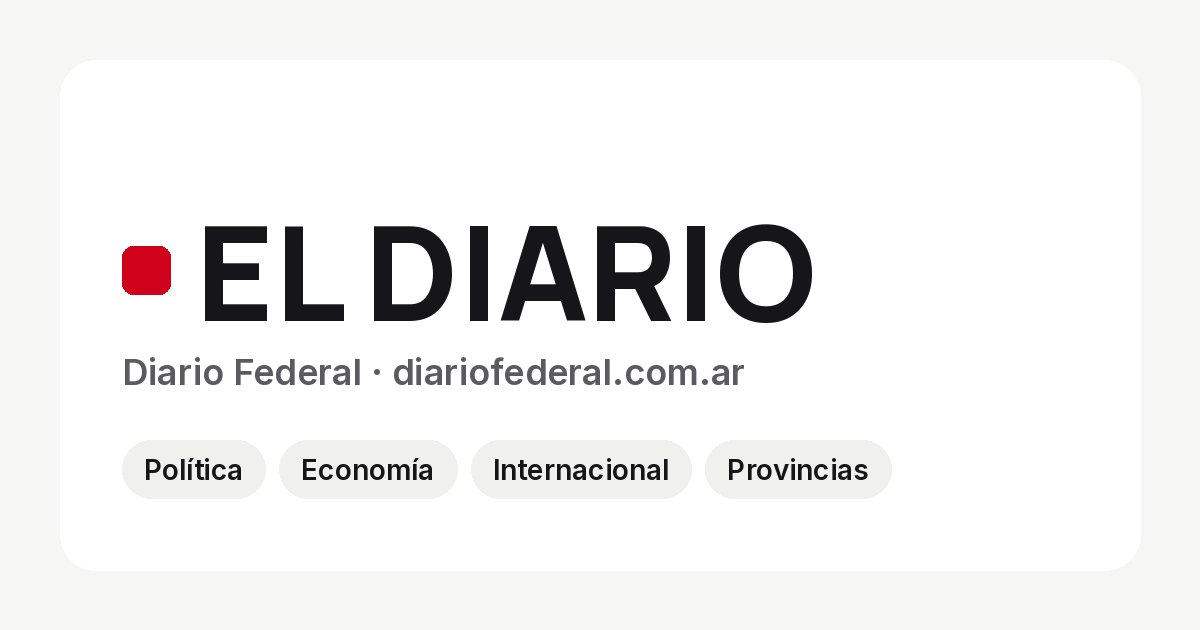
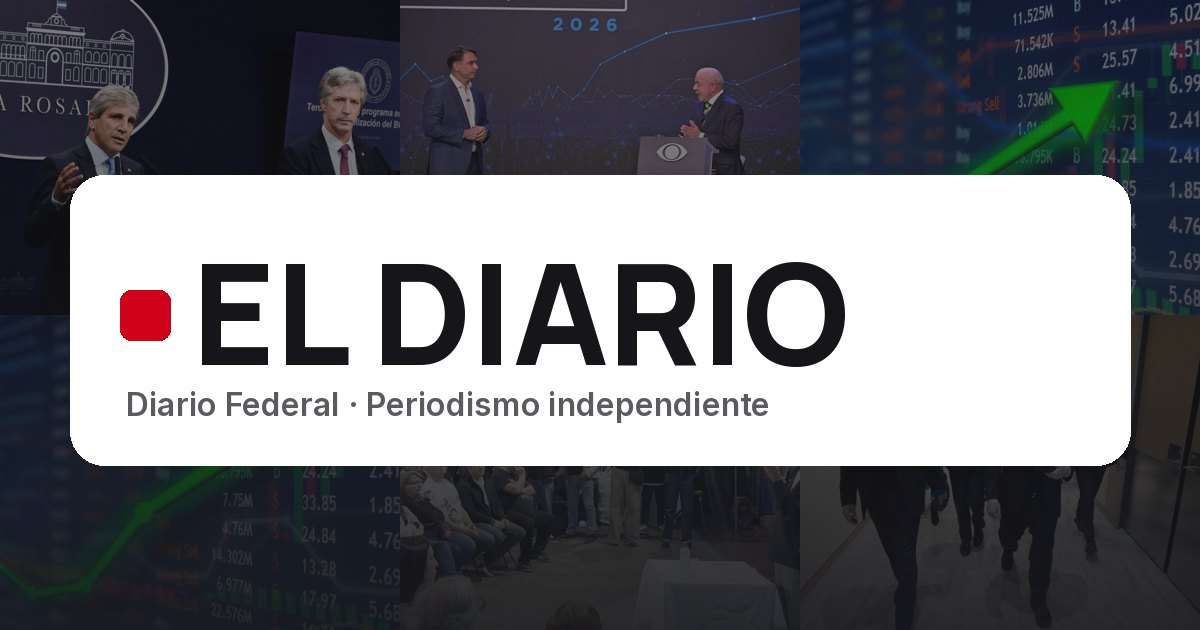
Cartel de la portada para WhatsApp: mosaico con las fotos de las últimas notas
- /api/og-portada.jpg arma un mosaico con 6 fotos recientes, oscurecido, y la tarjeta
  de la marca encima
- La portada pide una versión por día para que WhatsApp lo vaya renovando
- Si no se pueden bajar las fotos, se usa el cartel fijo con el mismo diseño

Claude-Session: https://claude.ai/code/session_01GgiR6yN54746cHdFVamrvT

diff --git a/src/pages/api/og-portada.jpg.ts b/src/pages/api/og-portada.jpg.ts
@@ -1,25 +1,64 @@
+// Cartel de la portada para WhatsApp y redes (1200x630): un mosaico con las fotos de las
+// últimas notas, oscurecido, con la tarjeta de la marca encima. Se arma solo con las notas del
+// momento; la portada pide una versión nueva cada día (?d=AAAA-MM-DD) para que WhatsApp la renueve.
+// Si algo falla, se sirve el cartel fijo /images/diario-federal-portada.jpg.
 import type { APIRoute } from 'astro';
 import sharp from 'sharp';
+import { getArticulos } from '../../lib/articles';
+import { descargarImagen } from '../../lib/imagenes';
 
 export const prerender = false;
 
-export const GET: APIRoute = async () => {
-  const svg = `<svg xmlns="http://www.w3.org/2000/svg" width="1200" height="630" viewBox="0 0 1200 630">
-    <rect width="1200" height="630" fill="#f8f7f4"/>
-    <rect width="1200" height="18" fill="#d32128"/>
-    <rect x="72" y="77" width="1056" height="3" fill="#d32128"/>
-    <text x="76" y="150" font-family="Arial,Helvetica,sans-serif" font-size="32" font-weight="bold" letter-spacing="8" fill="#d32128">PERIODISMO INDEPENDIENTE</text>
-    <text x="64" y="325" font-family="Georgia,Times New Roman,serif" font-size="119" font-weight="bold" fill="#141414">DIARIO</text>
-    <text x="64" y="449" font-family="Georgia,Times New Roman,serif" font-size="119" font-weight="bold" fill="#d32128">FEDERAL</text>
-    <rect x="76" y="485" width="1048" height="3" fill="#141414"/>
-    <text x="76" y="544" font-family="Arial,Helvetica,sans-serif" font-size="30" fill="#353535">Argentina · Política · Economía · Internacionales</text>
-    <rect y="594" width="1200" height="36" fill="#d32128"/>
-  </svg>`;
-  const jpeg = await sharp(Buffer.from(svg)).jpeg({ quality: 86, mozjpeg: true }).toBuffer();
-  return new Response(jpeg, {
-    headers: {
-      'Content-Type': 'image/jpeg',
-      'Cache-Control': 'public, max-age=3600, s-maxage=86400',
-    },
-  });
+const W = 1200;
+const H = 630;
+const CW = W / 3;
+const CH = H / 2;
+
+export const GET: APIRoute = async ({ url }) => {
+	try {
+		const articulos = await getArticulos();
+		const fuentes = articulos
+			.filter((a) => a.image_url)
+			.slice(0, 12)
+			.map((a) => (/^https?:\/\//i.test(a.image_url) ? a.image_url : new URL(a.image_url, url.origin).href));
+
+		// Bajamos fotos hasta juntar 6 que se puedan usar.
+		const celdas: Buffer[] = [];
+		for (const src of fuentes) {
+			if (celdas.length >= 6) break;
+			const bytes = await descargarImagen(src, 5000);
+			if (!bytes) continue;
+			try {
+				celdas.push(await sharp(bytes, { failOn: 'none' }).rotate().resize(CW, CH, { fit: 'cover', position: 'attention' }).toBuffer());
+			} catch {}
+		}
+		if (celdas.length < 6) throw new Error('faltan fotos');
+
+		const tarjeta = await descargarImagen(new URL('/images/marca-tarjeta.png', url.origin).href);
+		if (!tarjeta) throw new Error('sin tarjeta');
+
+		// Oscurecido de arriba hacia abajo para que la marca se lea siempre.
+		const velo = Buffer.from(
+			`<svg xmlns="http://www.w3.org/2000/svg" width="${W}" height="${H}"><defs><linearGradient id="g" x1="0" y1="0" x2="0" y2="1"><stop offset="0" stop-color="#16161a" stop-opacity="0.47"/><stop offset="1" stop-color="#16161a" stop-opacity="0.9"/></linearGradient></defs><rect width="${W}" height="${H}" fill="url(#g)"/></svg>`,
+		);
+
+		const jpeg = await sharp({ create: { width: W, height: H, channels: 3, background: '#16161a' } })
+			.composite([
+				...celdas.map((input, i) => ({ input, left: (i % 3) * CW, top: Math.floor(i / 3) * CH })),
+				{ input: velo, left: 0, top: 0 },
+				{ input: tarjeta, left: 70, top: 170 },
+			])
+			.jpeg({ quality: 84, mozjpeg: true, chromaSubsampling: '4:2:0' })
+			.toBuffer();
+
+		return new Response(jpeg, {
+			headers: {
+				'Content-Type': 'image/jpeg',
+				'Cache-Control': 'public, max-age=3600',
+				'CDN-Cache-Control': 'public, s-maxage=21600, stale-while-revalidate=86400',
+			},
+		});
+	} catch {
+		return Response.redirect(new URL('/images/diario-federal-portada.jpg', url.origin), 302);
+	}
 };
